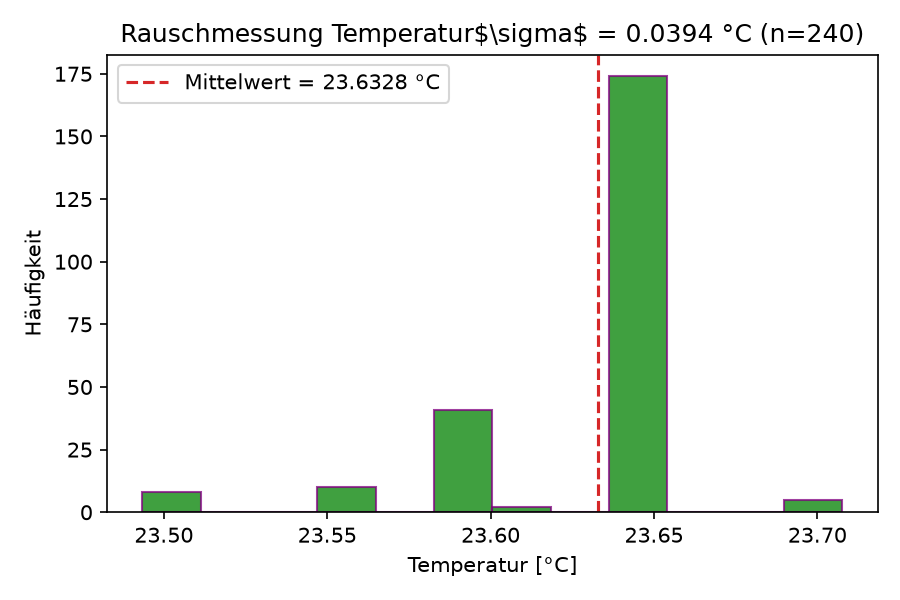
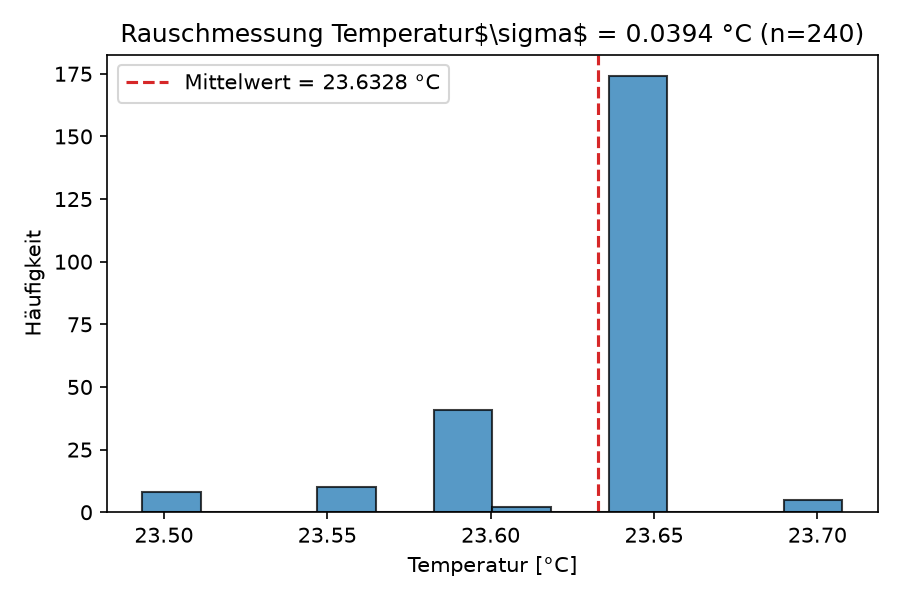
Pause 3 nach Rauschen

diff --git a/V1_W-Lehre1/Leon/Dampfdruckkurve_real.py b/V1_W-Lehre1/Leon/Dampfdruckkurve_real.py
@@ -60,7 +60,7 @@ print(f"Übersicht der Messung gespeichert in {OUTPUT / 'Übersicht_Messung.png'
 def rauschmessung(werte, name, einheit,dateiname):
     mittel, sigma =analyse.mittelwert_stdabw(werte)
     fig, ax = plt.subplots(figsize=(6,4))
-    ax.hist(werte, bins=12, color="green", alpha=0.75, edgecolor="purple")
+    ax.hist(werte, bins=12, color="tab:blue", alpha=0.75, edgecolor="black")
     ax.axvline(mittel, color="tab:red",ls='--', label=f'Mittelwert = {mittel:.4f} {einheit}')
     ax.set_xlabel(f'{name} [{einheit}]')
     ax.set_ylabel("Häufigkeit")
